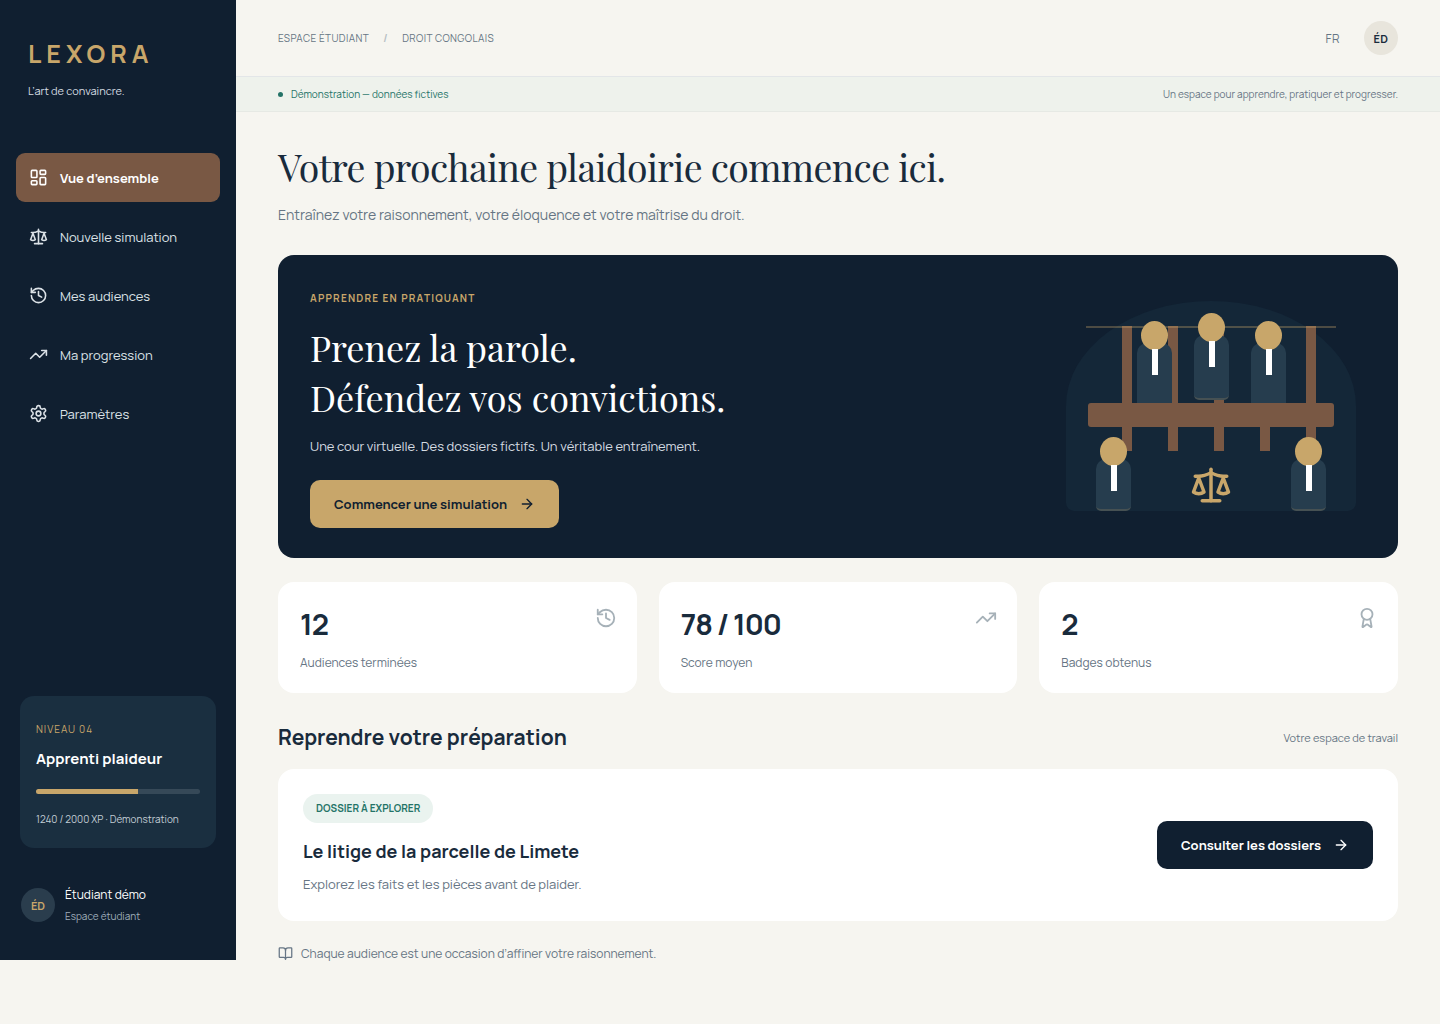
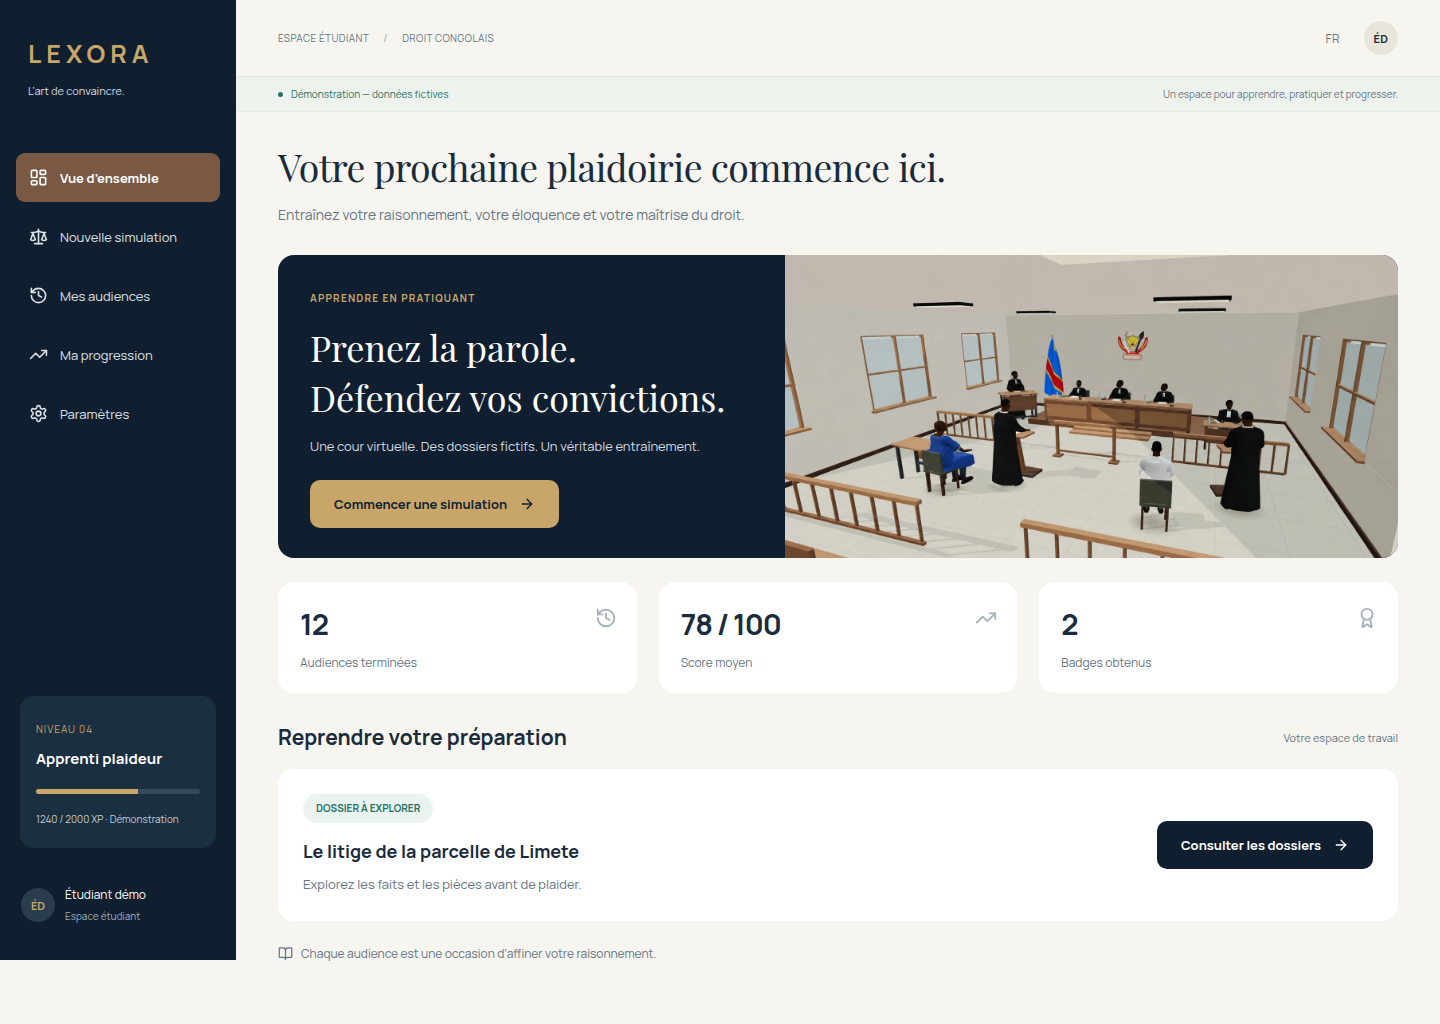
Feature cropped courtroom image on the homepage

Changed region(s): [[0.5312, 0.25, 0.9688, 0.5625]]

diff --git a/src/features/Home.tsx b/src/features/Home.tsx
@@ -4,7 +4,7 @@ import {
   Award,
   BookOpen,
 } from "lucide-react";
-import { Heading, Action, Badge, CourtArt } from "../components/Layout";
+import { Heading, Action, Badge } from "../components/Layout";
 import { getDemoProfile, getSessions, getDemoCase } from "../services/demo";
 import { serverMode } from "../services/api";
 import type { Profile, TrialHistory } from "../services/contracts";
@@ -26,7 +26,7 @@ export default function Home({
         title="Votre prochaine plaidoirie commence ici."
         description="Entraînez votre raisonnement, votre éloquence et votre maîtrise du droit."
       />
-      <section className="hero">
+      <section className="hero hero--courtroom">
         <div>
           <span className="eyebrow">APPRENDRE EN PRATIQUANT</span>
           <h2>
@@ -39,7 +39,15 @@ export default function Home({
           </p>
           <Action to="/app/simulation/role">Commencer une simulation</Action>
         </div>
-        <CourtArt />
+        <figure className="home-courtroom">
+          <img
+            src={`${import.meta.env.BASE_URL}images/lexora-courtroom-home.webp`}
+            alt="La salle d’audience virtuelle Lexora, ses intervenants et le drapeau de la RDC."
+            width={2069}
+            height={760}
+            fetchPriority="high"
+          />
+        </figure>
       </section>
       <div className="stats-grid">
         {(

diff --git a/src/styles/global.css b/src/styles/global.css
@@ -2631,3 +2631,49 @@ summary {
     max-height: none;
   }
 }
+
+/* Homepage courtroom preview. */
+.hero--courtroom {
+  display: grid;
+  grid-template-columns: minmax(0, 0.95fr) minmax(0, 1.15fr);
+  align-items: stretch;
+  gap: 0;
+  padding: 0;
+}
+.hero--courtroom > div {
+  padding: 30px 32px;
+}
+.home-courtroom {
+  margin: 0;
+  min-width: 0;
+  position: relative;
+}
+.home-courtroom img {
+  display: block;
+  width: 100%;
+  height: 100%;
+  object-fit: cover;
+  object-position: 55% center;
+}
+@media (max-width: 1100px) {
+  .hero--courtroom {
+    grid-template-columns: 1fr;
+  }
+  .hero--courtroom > div {
+    padding: 26px;
+  }
+  .home-courtroom {
+    aspect-ratio: 2.5;
+  }
+}
+@media (max-width: 767px) {
+  .hero--courtroom {
+    padding: 0;
+  }
+  .hero--courtroom > div {
+    padding: 25px;
+  }
+  .home-courtroom {
+    aspect-ratio: 16 / 9;
+  }
+}

diff --git a/docs/validation.md b/docs/validation.md
@@ -72,3 +72,9 @@ Vérifications : trois points de vue, qualité persistante, sept intervenants pi
 Les serveurs de cette recette finale sont isolés sur 5273 et 5274 dans une copie de vérification, avec un cache de dépendances distinct. Le code applicatif testé est celui de la branche ; seuls les ports et les chemins autorisés des dépendances sont adaptés dans la copie. Captures examinées : `docs/images/courtroom-adapted-desktop.png` et `docs/images/courtroom-adapted-mobile.png`.
 
 Le build livre environ 486 ko de JavaScript principal (150 ko gzip), un adaptateur 3D différé de 2,4 ko (1,15 ko gzip), le moteur isolé existant et les mêmes 38 Mo de modèles. Pas de réduction annoncée du poids des GLB, de mesure de fluidité sur GPU réel ou de recette sur téléphone physique. Le chargement est plus tolérant aux réseaux lents, sans prétendre à une validation sur réseau mobile réel. Django, IA, STT et TTS réels restent à connecter et à valider côté backend.
+
+## Image d’accueil — 12 novembre 2026
+
+La capture de la salle fournie par l’utilisateur est recadrée pour retirer le navigateur, les menus et la transcription, puis encodée en WebP (2 069 × 760, environ 110 ko). Elle remplace l’illustration de l’accueil. Le bandeau présente texte et image côte à côte sur grand écran, puis empilés avec un cadrage central sur mobile.
+
+Build et lint réussis. Vérification Chrome du build à 1440 × 960 et 390 × 844 : image chargée, texte alternatif présent, lien de simulation conservé, aucune erreur JavaScript et aucun débordement horizontal. Captures d’accueil actualisées et examinées. La suite complète d’audience n’a pas été relancée pour ce changement visuel.
